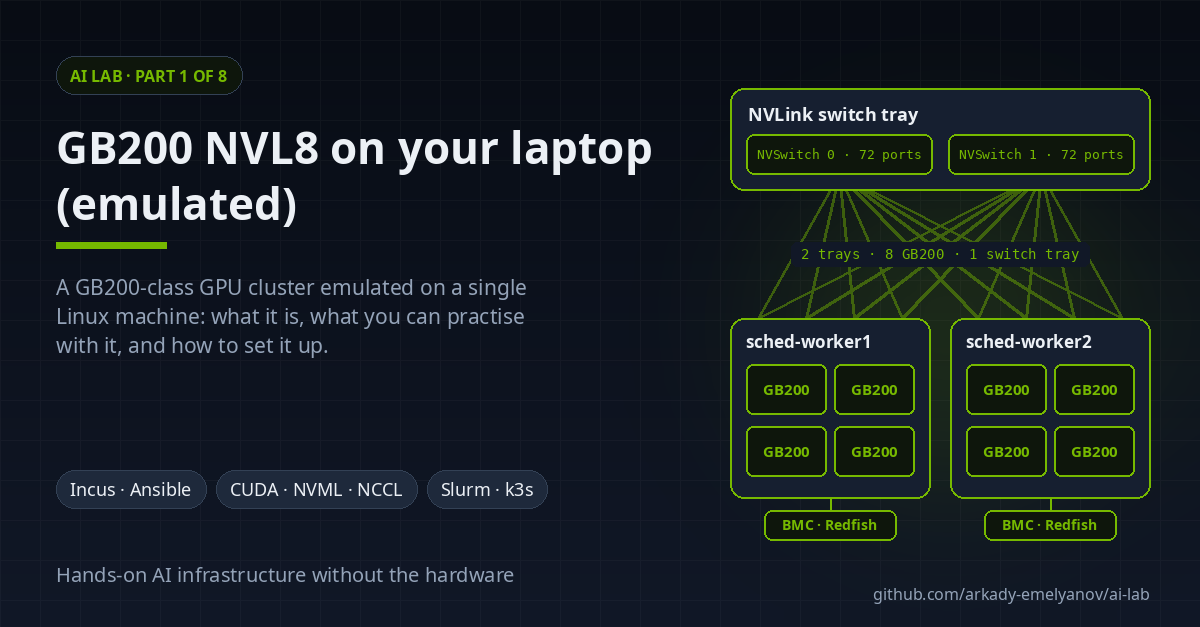
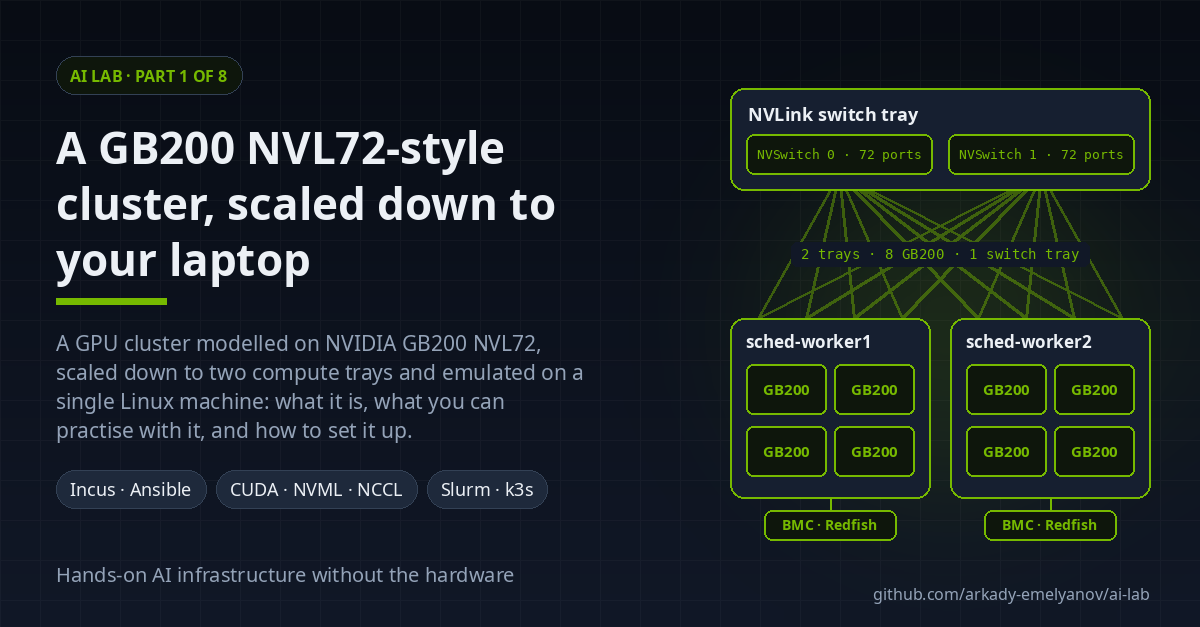
AI lab: fact-check fixes, NVL8 explained as a scaled-down NVL72
Part 1 gets a new title and description: a GB200 NVL72-style cluster,
scaled down to two compute trays, with NVL8 explained as the lab's own
name rather than an NVIDIA product (Part 2 repeats it). The card is
regenerated from the new front matter.

Fixes from the fact-check of the series:
- Part 1: timing derived from NVIDIA's published figures, simplified;
  x86-64 requirement and a Grace CPUs item; InfiniBand per tray vs
  per domain
- Part 2: notes on scratch vs TmpDisk, job IDs and the dashboard run
- Part 3: mirror.gcr.io is a cache of popular Docker Hub images
- Part 4: Redfish as IPMI's successor
- Part 5: NMX-C return codes are NVIDIA's documented ones
- Part 7: InfiniBand vs Ethernet share; RDMA bypasses the remote CPU
- Part 8: GPU_RESET on a partition change is the lab's modelling;
  device-plugin API vs DRA

Changed region(s): [[0.0308, 0.303, 0.4933, 0.6061], [0.0308, 0.2121, 0.555, 0.2727], [0.0308, 0.6364, 0.4317, 0.697]]

diff --git a/content/ai-lab/01-intro/index.md b/content/ai-lab/01-intro/index.md
@@ -1,7 +1,7 @@
 +++
-title = "AI lab, part 1: GB200 NVL8 on your laptop (emulated)"
+title = "AI lab, part 1: a GB200 NVL72-style cluster, scaled down to your laptop"
 date = 2026-09-28
-description = "A GB200-class GPU cluster emulated on a single Linux machine: what it is, what you can practise with it, and how to set it up."
+description = "A GPU cluster modelled on NVIDIA GB200 NVL72, scaled down to two compute trays and emulated on a single Linux machine: what it is, what you can practise with it, and how to set it up."
 
 [extra]
 # Series navigation and table of contents are placed in the body (below).
@@ -28,7 +28,7 @@ Most of the work in AI infrastructure isn't the GPUs themselves. It's everything
 
 For systems and software engineers, this is hard to learn: you can't practise on a GB200 rack you don't have, and cloud GPU instances hide exactly these layers.
 
-[ai-lab](https://github.com/arkady-emelyanov/ai-lab) is my attempt at a way around that. It's a complete GPU cluster that runs on a single Linux machine. The GPUs are emulated, but everything around them is real: the scheduler, the frameworks and the tools are the real software, unmodified. They run against a model of what a GB200 NVL8 rack shows to software (its APIs, topology, telemetry, timing and failures), not against the silicon. This is called software-in-the-loop testing.
+[ai-lab](https://github.com/arkady-emelyanov/ai-lab) is my attempt at a way around that. It's a complete GPU cluster that runs on a single Linux machine. The GPUs are emulated, but everything around them is real: the scheduler, the frameworks and the tools are the real software, unmodified. They run against a model of what a GB200 NVL72 rack, scaled down to two compute trays, shows to software (its APIs, topology, telemetry, timing and failures), not against the silicon. This is called software-in-the-loop testing. I call the scaled-down version NVL8, which is the lab's own name, not an NVIDIA product.
 
 That works because most of those layers never use a GPU for computation:
 
@@ -38,7 +38,7 @@ That works because most of those layers never use a GPU for computation:
 
 All of that works against GPUs that answer the right API calls, whether or not they compute anything. It's like a stub in a unit test: the GPU stack is replaced with an implementation of the same APIs, and the rest of the cluster runs against it unchanged.
 
-{{< figure src="overview.png" alt="AI lab at a glance: an emulated GB200 NVL8 domain (NVLink switch tray, two GPU trays with 4 × GB200 each, BMCs, InfiniBand) plus login, control and storage instances, all inside a single Linux machine" caption="AI lab overview: the NVL8 domain and the platform instances" />}}
+{{< figure src="overview.png" alt="AI lab at a glance: the emulated NVL8 domain (NVLink switch tray, two GPU trays with 4 × GB200 each, BMCs, InfiniBand) plus login, control and storage instances, all inside a single Linux machine" caption="AI lab overview: the NVL8 domain and the platform instances" />}}
 
 {% <admonition type="note" title="What the lab is not for"> %}
 - Benchmarking or capacity planning from the lab's timings
@@ -51,7 +51,7 @@ All of that works against GPUs that answer the right API calls, whether or not t
 
 ## What the lab is made of
 
-The hardware side is one NVIDIA GB200-class **NVL8** NVLink domain. [NVLink](https://www.nvidia.com/en-us/data-center/nvlink/) is NVIDIA's GPU-to-GPU interconnect, and an NVLink domain is a set of GPUs that can all reach each other over it, even across trays, without going through the network. It's the unit a scheduler has to respect when it places a multi-GPU job. The lab's domain has:
+The hardware side is one **NVL8** NVLink domain: an 8-GPU slice of a GB200 NVL72-style domain, with two compute trays and one NVLink switch tray. [NVLink](https://www.nvidia.com/en-us/data-center/nvlink/) is NVIDIA's GPU-to-GPU interconnect, and an NVLink domain is a set of GPUs that can all reach each other over it, even across trays, without going through the network. It's the unit a scheduler has to respect when it places a multi-GPU job. The lab's domain has:
 
 - 2x GPU compute trays with 4x GB200 GPUs each
 - an NVLink switch tray with 2x NVSwitch chips (144 ports)
@@ -92,10 +92,11 @@ The hardware and NVIDIA's software are modelled:
 - **NVML and `nvidia-smi`** report the GPU's identity, NVLink state, NVLink partition, NUMA layout and processes, and support GPU reset. Utilisation, power and temperature follow a model of the load, not measured curves.
 - **NCCL** creates communicators and times collectives over NVLink inside a partition and over InfiniBand across partitions. No data is exchanged, so a dead peer or a broken link doesn't make a collective fail as it would on real hardware.
 - **NVLink and NVSwitch** have 18 links per GPU to two 72-port switches, partitions that take effect at GPU reset, links that can be disabled, and fabric telemetry. There is a single NVL8 domain, enough to exercise every interface but not to study a large cluster.
+- **The Grace CPUs** aren't emulated. The trays run on the host's x86-64 cores, so `scontrol show node` reports `Arch=x86_64` where a GB200 tray would report `aarch64`.
 - **The BMCs** follow the GB200 Redfish layout, with power actions that really stop and start the tray, GPU sensors and firmware inventory. IPMI and BlueField DPUs aren't modelled.
 - **InfiniBand** has a topology that tools like topograph can discover, byte counters on the network cards, and its 400 Gb/s link rate in NCCL timing. No packets are sent.
 
-Timing is a behavioural model, not a prediction. Each operation's duration comes from documented GB200 figures (compute rate, memory, NVLink and InfiniBand bandwidth) applied to its size. Jobs take a plausible time and put a plausible load on the GPUs and links, but the figures aren't calibrated against hardware and don't predict real GB200 performance. The full list is under "What is real and what is modelled" in the lab's [README](https://github.com/arkady-emelyanov/ai-lab).
+Timing is a behavioural model, not a prediction. Each operation's duration is derived from NVIDIA's published GB200 figures (compute rate, memory, NVLink and InfiniBand bandwidth) and applied to its size. The figures are simplified: one tensor rate covers all low-precision types, and some rates are estimated. Jobs take a plausible time and put a plausible load on the GPUs and links, but the figures aren't calibrated against hardware and don't predict real GB200 performance. The full list is under "What is real and what is modelled" in the lab's [README](https://github.com/arkady-emelyanov/ai-lab).
 
 `nvidia-smi topo -m` shows how the GPUs in one tray are connected to each other. Here it runs on the first GPU tray, `sched-worker1`:
 
@@ -125,7 +126,7 @@ A change travels through the whole stack the way it would on a real cluster. Thi
 3. Within a minute, topograph rewrites Slurm's topology: one block per tray instead of one for both. With Kubernetes, it relabels the nodes instead.
 4. Slurm prefers to keep a job inside one block. An 8-GPU job no longer fits in one, so it spans both.
 5. The emulated NCCL sends the traffic between the two halves over InfiniBand instead of NVLink, and the same training job takes 2:39 instead of 1:17.
-6. Prometheus shows the shift: InfiniBand traffic rises to about 120 GB/s per tray, and NVLink traffic falls from 3.52 to 1.36 TB/s.
+6. Prometheus shows the shift: InfiniBand traffic rises to about 120 GB/s per tray (240 GB/s for the domain), and NVLink traffic falls from 3.52 to 1.36 TB/s.
 
 {{< figure src="/ai-lab/05-nvlink/panel-nvlink-vs-ib.png" alt="Grafana panel: NVLink traffic at about 3.5 TB/s and no InfiniBand traffic during the first run; during the second run NVLink falls to about 1.4 TB/s and InfiniBand rises to about 240 GB/s" caption="NVLink vs InfiniBand traffic: the same DDP job on one partition, then split across two" />}}
 
@@ -141,7 +142,7 @@ The times come from the timing model, so what matters is the chain of effects an
 
 ## Requirements
 
-- Linux with [Incus](https://linuxcontainers.org/incus/), plus `make`, Python 3, Go, `jq` and git
+- x86-64 Linux with [Incus](https://linuxcontainers.org/incus/), plus `make`, Python 3, Go, `jq` and git
 - Your user in the `incus-admin` group
 - **RAM:** 16 GiB free (the running lab uses about 10 GiB)
 - **CPU:** 4 cores or more (with enough cores, `make up` gives each GPU tray cores of its own, so the trays don't slow each other down)

diff --git a/content/ai-lab/02-slurm/index.md b/content/ai-lab/02-slurm/index.md
@@ -19,7 +19,7 @@ local_image = "ai-lab/02-slurm/card.png"
 
 ## Overview
 
-[Part 1](@/ai-lab/01-intro/index.md) introduced the lab and NVLink, NVIDIA's GPU-to-GPU interconnect: one NVL8 NVLink domain with two trays of four emulated GB200 GPUs, running on a single Linux machine. This post covers the default scheduler, Slurm 23.11.
+[Part 1](@/ai-lab/01-intro/index.md) introduced the lab and NVLink, NVIDIA's GPU-to-GPU interconnect: one NVLink domain modelled on GB200 NVL72 and scaled down to two trays of four emulated GB200 GPUs (NVL8, the lab's own name, not an NVIDIA product), running on a single Linux machine. This post covers the default scheduler, Slurm 23.11.
 
 [Slurm](https://github.com/SchedMD/slurm) is an open-source job scheduler, common on HPC and GPU clusters. You submit a job, Slurm finds free resources for it, runs it and records what it used. A Slurm cluster has three kinds of nodes:
 
@@ -174,7 +174,7 @@ job 14 on sched-worker[1-2]: 8 tasks
 7: rank 7 on sched-worker2 CUDA_VISIBLE_DEVICES=3: NVIDIA GB200, GPU-814804a5-291e-ba91-a4e9-01fb69ea739b, 1, scratch  198G
 ```
 
-All eight GPUs are in clique `1`, which is the same NVLink partition, so traffic between any two ranks can stay on NVLink. [Part 5](@/ai-lab/05-nvlink/index.md) splits the domain and shows what Slurm does when a job can't fit in one partition.
+The `scratch` column is the size `df` reports for `/scratch`, which is the host's filesystem, not the 50 GB that Slurm advertises as `TmpDisk`. All eight GPUs are in clique `1`, which is the same NVLink partition, so traffic between any two ranks can stay on NVLink. [Part 5](@/ai-lab/05-nvlink/index.md) splits the domain and shows what Slurm does when a job can't fit in one partition.
 
 ### PyTorch DDP on 8 GPUs
 
@@ -207,7 +207,7 @@ $ sacct -X -o JobID,JobName,User,Account,AllocTRES%45,Elapsed,State
 3            nvl8-hello       joe        lab  billing=8,cpu=8,gres/gpu=8,mem=15000M,node=2   00:00:01  COMPLETED
 ```
 
-GPU-hour reports and chargeback are built on this data.
+The job IDs differ from the ones above because the listings come from separate runs of the lab. GPU-hour reports and chargeback are built on this data.
 
 ### Draining a node for maintenance
 
@@ -309,7 +309,7 @@ Open Grafana (`http://10.107.111.10:3000`) and the **Lab overview** dashboard:
 
 {{< figure src="lab-overview.png" alt="Lab overview dashboard: GPU utilisation, memory, power, temperature and processes rising together while the DDP job runs" caption="Lab overview dashboard during the DDP run" />}}
 
-All eight GPUs move together:
+The screenshot comes from a separate run, so its values differ a little from the samples above. All eight GPUs move together:
 
 - **GPU utilisation** jumps to about 87 % when the job starts and drops to 0 when it ends.
 - **GPU memory used** goes to about 7 GiB per GPU and stays there until the job ends.

diff --git a/content/ai-lab/08-gpu-handover/index.md b/content/ai-lab/08-gpu-handover/index.md
@@ -62,7 +62,7 @@ index, fabric.clique_id
 3, 1
 ```
 
-`nvidia-smi -q` shows why. The **GPU Recovery Action** field says the GPU is waiting for a reset:
+`nvidia-smi -q` shows why. In the lab, a pending partition change sets the **GPU Recovery Action** field to `GPU_RESET`, so the GPU reports that it's waiting for a reset:
 
 ```console
 $ bin/ssh sched-worker2 'nvidia-smi -i 0 -q | grep -E "GPU Recovery Action|CliqueId"'
@@ -70,7 +70,7 @@ $ bin/ssh sched-worker2 'nvidia-smi -i 0 -q | grep -E "GPU Recovery Action|Cliqu
         CliqueId                          : 1
 ```
 
-The partition guide (§10.4, GPU Recovery State) describes `GPU_RESET` as "A reset is required. Do not restart the application without completing a GPU reset." `bin/nvlink` shows the same per GPU in the `RESET` column, and the tray BMC from [Part 4](@/ai-lab/04-bmc-redfish/index.md) still reports the old clique too:
+Tying the field to partition changes is the lab's modelling: NVIDIA documents the recovery action for faults. The partition guide (§10.4, GPU Recovery State) describes `GPU_RESET` as "A reset is required. Do not restart the application without completing a GPU reset." `bin/nvlink` shows the same per GPU in the `RESET` column, and the tray BMC from [Part 4](@/ai-lab/04-bmc-redfish/index.md) still reports the old clique too:
 
 ```console
 $ bin/nvlink gpus sched-worker2
@@ -244,7 +244,7 @@ The handover is on by default. Adding `gpu_handover_reset: false` to `local.yml`
 
 ## Kubernetes has no such hook
 
-Kubernetes runs nothing on the node after a pod ends that could reset its GPUs, so in Kubernetes mode the lab has no handover. The GPUs are reset when a tray boots, and after a partition change you reset idle GPUs by hand with the same `nvidia-smi --gpu-reset`.
+The device-plugin API, which the lab uses, has no hook on the node after a pod ends that could reset its GPUs, so in Kubernetes mode the lab has no handover. DRA drivers do get such a call when a claim is released, but the lab doesn't use DRA. The GPUs are reset when a tray boots, and after a partition change you reset idle GPUs by hand with the same `nvidia-smi --gpu-reset`.
 
 ## What to build on this
 

diff --git a/content/ai-lab/05-nvlink/index.md b/content/ai-lab/05-nvlink/index.md
@@ -36,7 +36,7 @@ A partition can hold part of a tray, down to a single GPU. NVML and the tray BMC
 In the lab, the domain is 8 GPUs, and the switch tray has two NVSwitch chips with 72 ports each. `sched-nvswitch` runs `fakenmxc`, an NMX-C-style controller. It speaks gRPC on port 9370 and serves fabric metrics on port 9372.
 
 {% <admonition type="note" title="The controller's API"> %}
-NVIDIA's `.proto` for NMX-C is proprietary, so `fakenmxc` has its own, and tools written against it need a different client for a real NMX-C. The behaviour follows NVIDIA's [GB200 NVL Partition User's Guide](https://docs.nvidia.com/multi-node-nvlink-systems/partition-guide-v1-2.pdf): the same partition operations (create, delete, add and remove GPUs), the default partition 32766, and a GPU reset after a partition change. The status codes for errors, such as `NMX_ST_GPU_IN_USE`, are the lab's own: the guide only names success and two control-plane errors.
+NVIDIA's `.proto` for NMX-C is proprietary, though its RPCs and return codes are publicly documented, so `fakenmxc` has its own, and tools written against it need a different client for a real NMX-C. The behaviour follows NVIDIA's [GB200 NVL Partition User's Guide](https://docs.nvidia.com/multi-node-nvlink-systems/partition-guide-v1-2.pdf): the same partition operations (create, delete, add and remove GPUs), the default partition 32766, and a GPU reset after a partition change. The return codes, such as `NMX_ST_RESOURCE_USED_IN_ANOTHER_PARTITION`, are the ones NVIDIA's [NMX-C gRPC API](https://networking-docs.nvidia.com/nmxcswum/130/grpc-api) documents.
 {% </admonition> %}
 
 ## Looking at the fabric

diff --git a/content/ai-lab/04-bmc-redfish/index.md b/content/ai-lab/04-bmc-redfish/index.md
@@ -25,7 +25,7 @@ Parts [2](@/ai-lab/02-slurm/index.md) and [3](@/ai-lab/03-kubernetes/index.md) u
 
 A **BMC** is a small computer on every server board with its own network port and its own power. Dell's iDRAC and HPE's iLO are BMCs. It stays up when the host is off or hung, and it can power the host on and off, report hardware inventory and health, and change firmware-level settings. In a GB200 rack every compute tray and every NVLink switch tray has one. A compute tray actually has two controllers: the tray's BMC, and the HGX Management Controller (HMC) on the GPU board, which looks after the GPUs. You only talk to the BMC, and it passes on what the HMC reports about the GPUs.
 
-**Redfish** is the DMTF's REST/JSON API for BMCs, and it replaced IPMI. Everything is a resource under `/redfish/v1`: you read with `GET`, change settings with `PATCH`, and trigger actions with `POST`. Vendors add their own fields under `Oem`. NVIDIA's GB200 BMCs run a fork of OpenBMC's `bmcweb`, and the lab's `fakebmc` is modelled on it, `Oem.Nvidia` fields included.
+**Redfish** is the DMTF's REST/JSON API for BMCs and its successor to IPMI. Everything is a resource under `/redfish/v1`: you read with `GET`, change settings with `PATCH`, and trigger actions with `POST`. Vendors add their own fields under `Oem`. NVIDIA's GB200 BMCs run a fork of OpenBMC's `bmcweb`, and the lab's `fakebmc` is modelled on it, `Oem.Nvidia` fields included.
 
 The lab has three BMCs:
 

diff --git a/content/ai-lab/07-networking/index.md b/content/ai-lab/07-networking/index.md
@@ -68,7 +68,7 @@ NCCL, the library that runs the all-reduce, picks the fastest path between each 
 
 ## The compute fabric: InfiniBand
 
-InfiniBand is the network most GPU clusters use between NVLink domains. It was built for HPC and offers very low latency and RDMA, which lets one machine write straight into another's memory without involving either CPU. Each host connects through an **HCA** (host channel adapter), InfiniBand's name for a network card.
+InfiniBand is the classic choice for the network between NVLink domains, and the one NVIDIA's reference designs use; Ethernet (RoCE, Spectrum-X) is now at least as common. InfiniBand was built for HPC and offers very low latency and RDMA, which lets one machine write straight into another's memory without involving the remote CPU. Each host connects through an **HCA** (host channel adapter), InfiniBand's name for a network card.
 
 The switches are usually wired in two layers, **leaf** and **spine**:
 

diff --git a/content/ai-lab/03-kubernetes/index.md b/content/ai-lab/03-kubernetes/index.md
@@ -133,7 +133,7 @@ spec:
 ```
 
 {% <admonition type="note" title="Container images"> %}
-The image comes from `mirror.gcr.io`, Google's public copy of Docker Hub, which has no anonymous pull limits. Plain `docker.io` names work too: each tray pulls them through the same mirror.
+The image comes from `mirror.gcr.io`, Google's public cache of popular Docker Hub images, so pulls don't count against Docker Hub's anonymous rate limit. Plain `docker.io` names work too: each tray pulls them through the same mirror.
 {% </admonition> %}
 
 ```console
